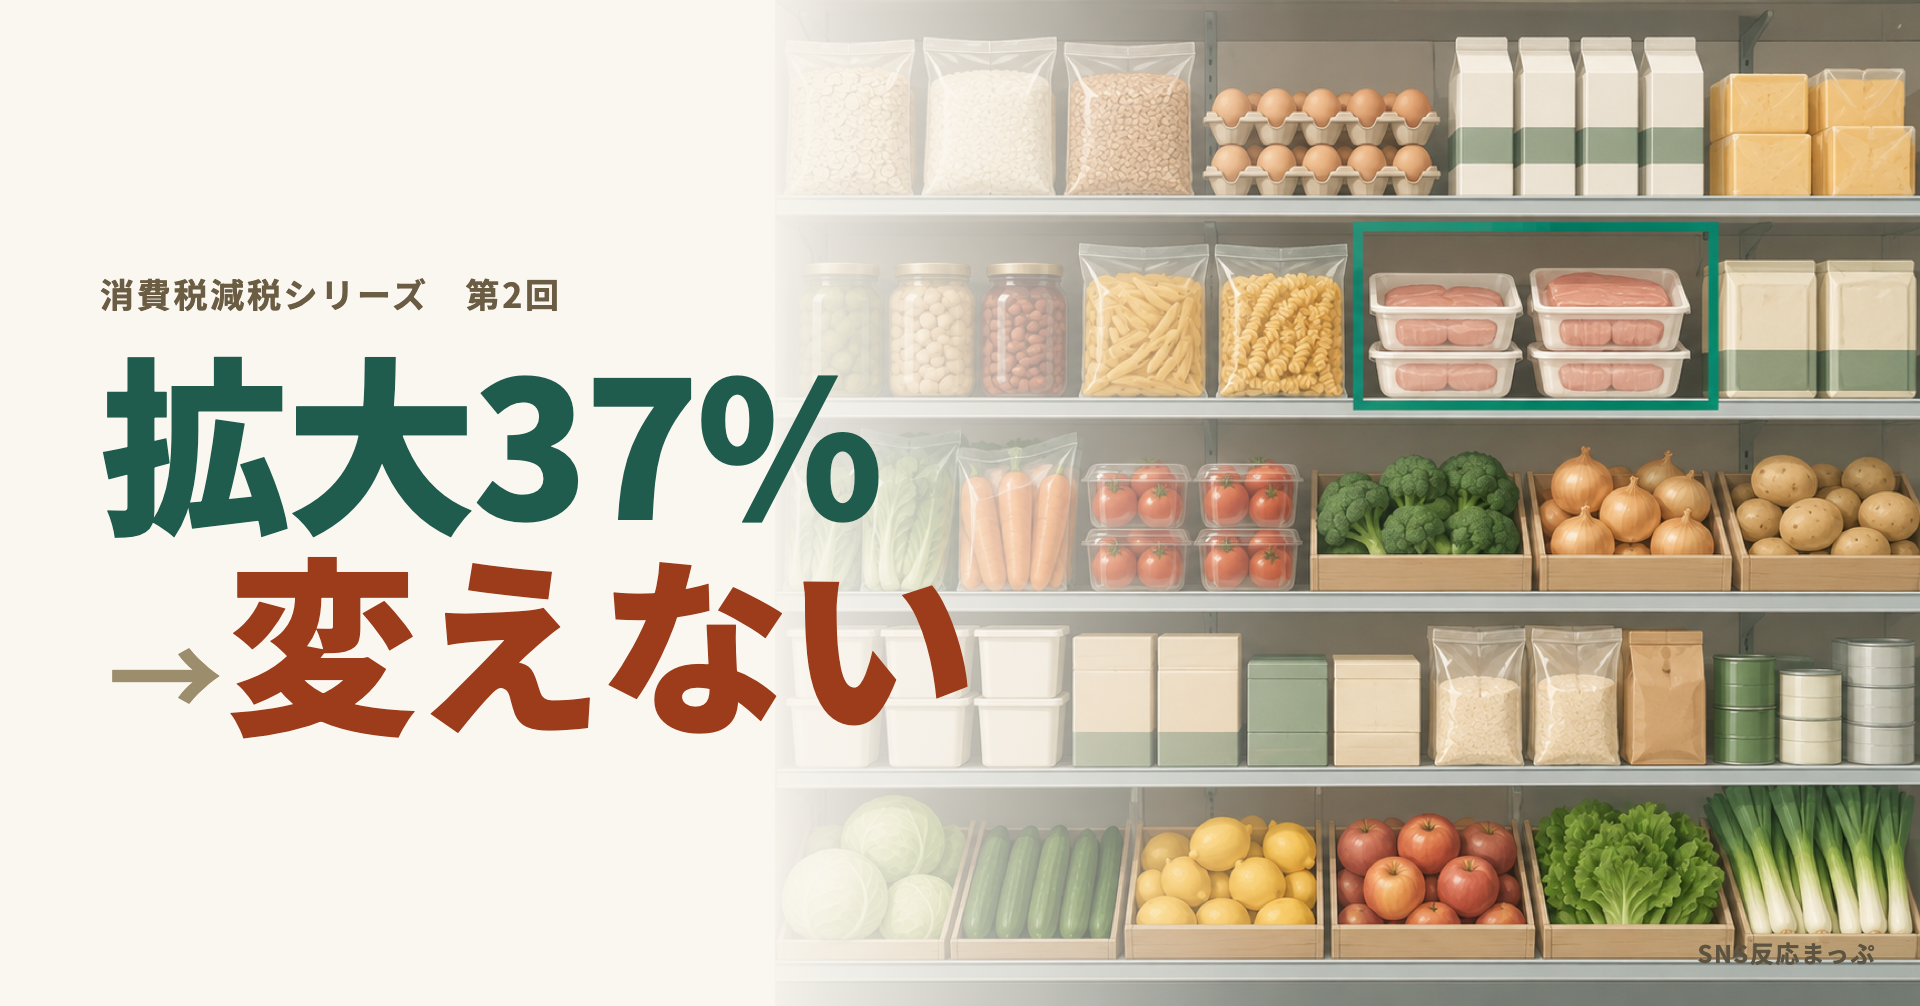
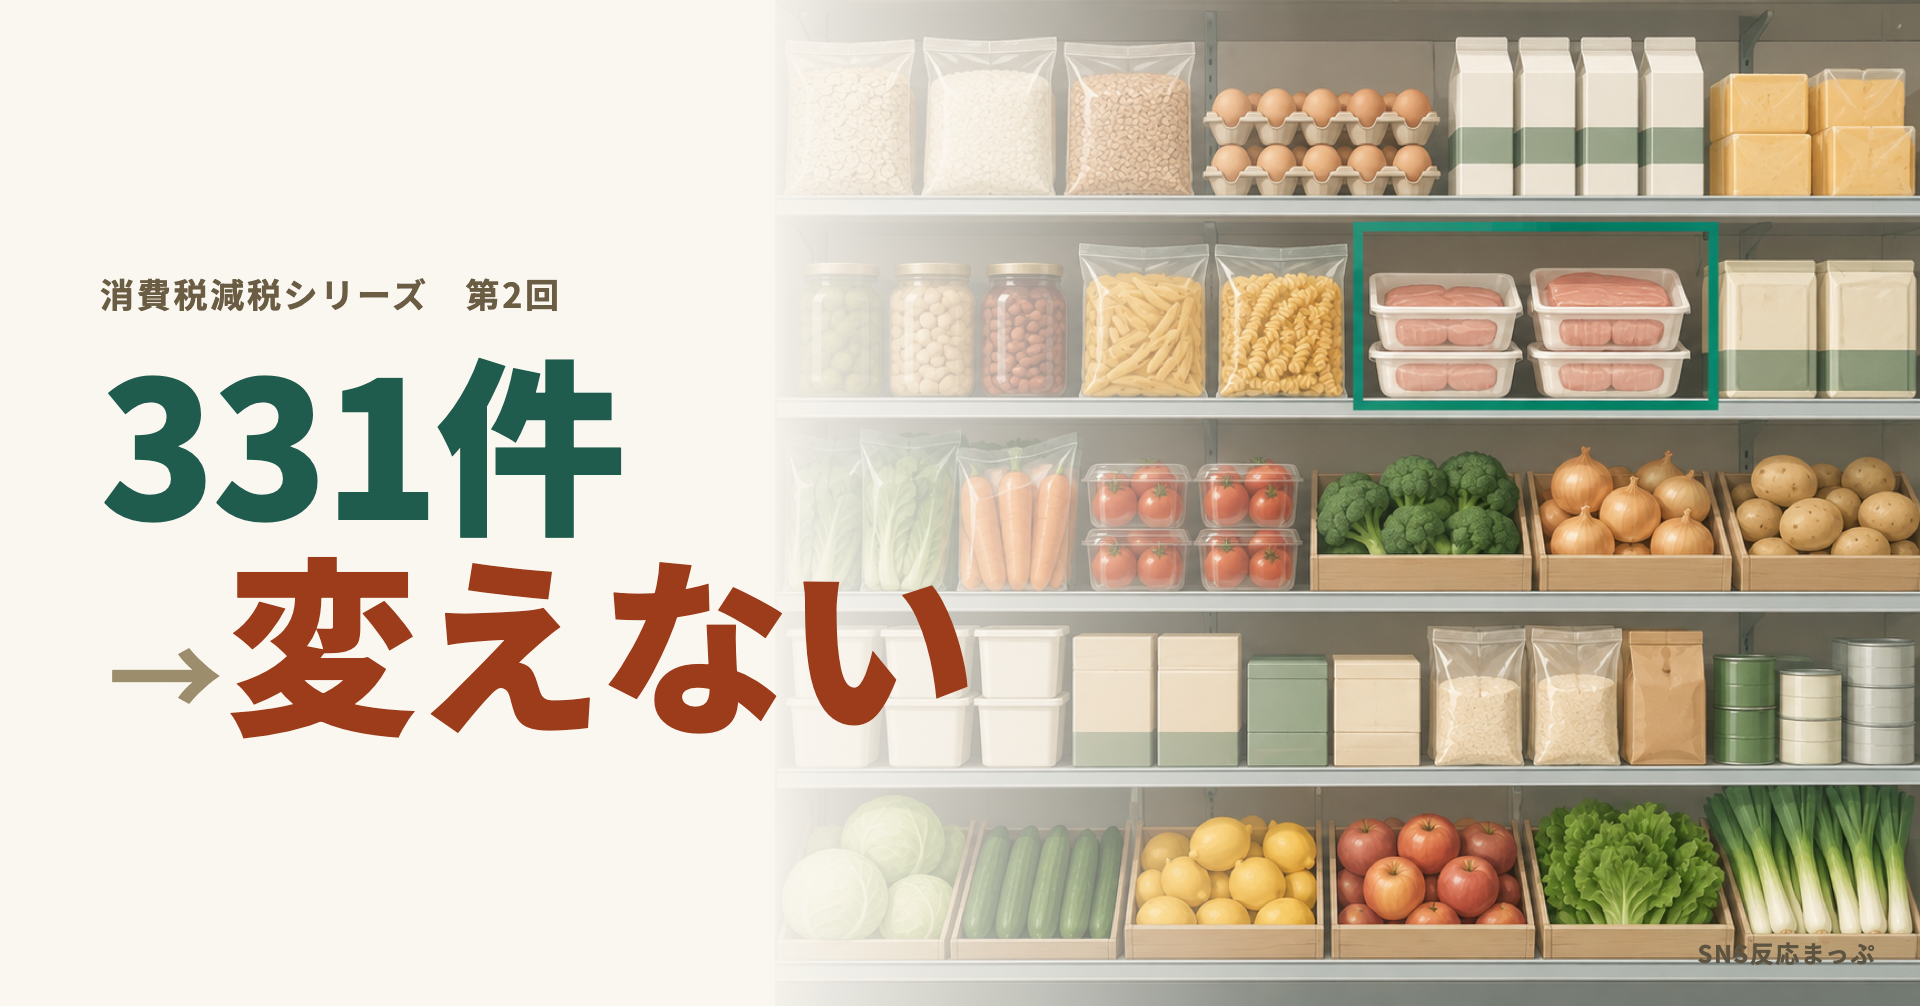
note第2回の見出し画像、第1回と型が被らないよう数字を差し替える
「拡大37%→変えない」は第1回「賛成60%→政治不信」と◯◯%+4文字で同型との
オーナー指摘を受け、「331件→変えない」（実数・件数表記）に変更。
テンプレートに「回ごとに数字の型を変える」注意書きを追加。

Changed region(s): [[0.0312, 0.339, 0.4688, 0.5547]]

diff --git a/content/note/drafts/consumption-tax-cut-header-template.md b/content/note/drafts/consumption-tax-cut-header-template.md
@@ -163,6 +163,16 @@ noteの公式推奨サイズ1280×670px・比率1.91:1と一致する。
 
 - 背景写真: `content/note/drafts/photos/consumption-tax-cut2-shelf-frame.png`（モチーフ: 食品棚の一部を枠で囲む）
 - 合成後の見出し画像: `content/note/drafts/images/consumption-tax-cut2_note-header.png`
-- 数字→転換ワード: 「拡大37%」（ティール）→「変えない」（テラコッタ）
+- 数字→転換ワード: 「331件」（ティール）→「変えない」（テラコッタ）※初版「拡大37%」から改訂
 - 写真がすでに1920×1006ぴったりだったため、`object-position`の調整（62% 50%等のシフト）は不要だった。
   `object-position: 50% 50%`のままで十分。写真自体に左40%の余白が作り込まれている場合は毎回この点を確認すること
+
+## 回ごとに数字の「型」を変える（2026-09-22 追加）
+
+第2回の初版「拡大37%→変えない」は、第1回「賛成60%→政治不信」と**◯◯%＋4文字**という
+文字の並びがほぼ同型で、オーナーから「回によって変わり映えがしない」と指摘された。
+
+**同じテンプレートを使い回しても、数字の種類と文字数は回ごとに変えること。**
+候補: 件数（331件）、年（2027年）、差額（◯兆円）、順位・個数など。%を毎回使わない。
+決めるときは、直前の回で使った数字の種類・語尾の記号（%/件/年/兆円など）を
+`git log`かこのファイルの「確定版ファイル」一覧で確認してから選ぶ。
